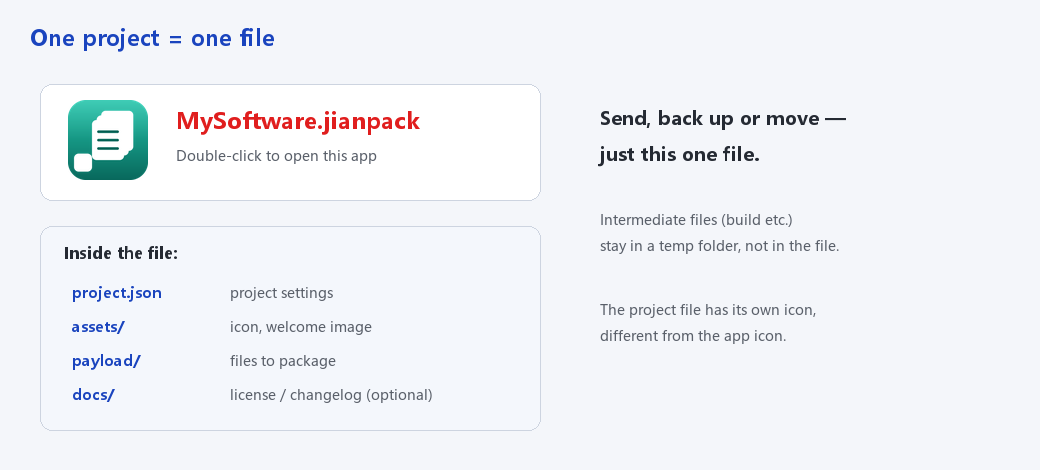
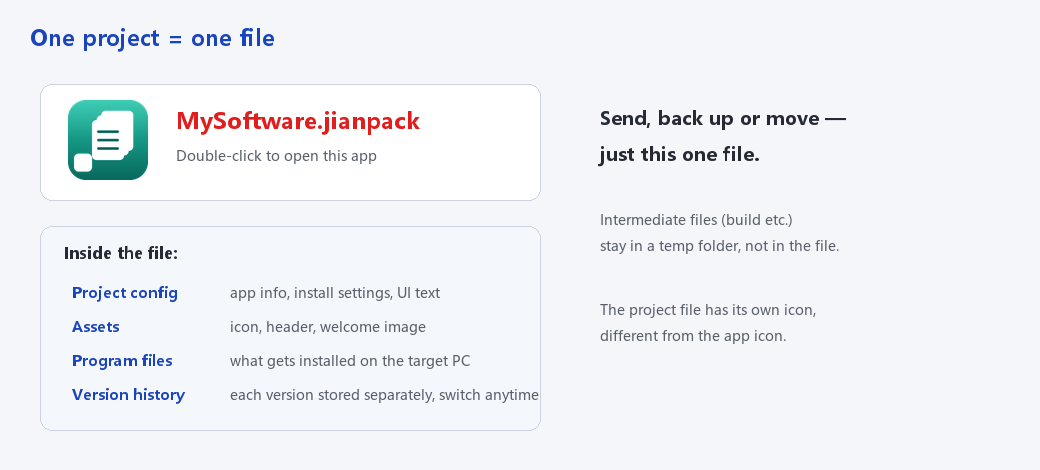
修复：版本面板「改版本号」现在真的改版本号（预览/安装包文件名/窗口标题同步）；打开后后台把其它版本的数据块解出来（切换≈0、不影响打开）；淘汰版本前先按需解出；教程「工程=一个文件」配图改为新格式说明（中英重生成）

diff --git a/app/core/versions.py b/app/core/versions.py
@@ -29,6 +29,7 @@ from pathlib import Path
 from ..i18n import t as _
 from . import container
 from .errors import ProjectFileError
+from .project import _pad_version
 
 VERSIONS_JSON = "versions.json"
 VERSIONS_DIR = "versions"
@@ -447,7 +448,7 @@ class VersionStore:
                            payload_tops=tops)
         self.items.append(item)
         self.current = item.id
-        self.prune()
+        self.prune(project)
         self.save()
         return item
 
@@ -473,13 +474,8 @@ class VersionStore:
             return target
 
         target_dir = self.dir_for(target_id)
-        if not target_dir.is_dir() and self.container_path is not None:
-            # 数据块还没解到磁盘（打开时只解了当前版本）→ 现在按需解开它
-            try:
-                container.materialize(self.container_path, self.base_dir, target_id)
-            except ProjectFileError:
-                pass
-        if not target_dir.is_dir():
+        self._ensure_materialized(project, target)
+        if not (target_dir / "project.json").is_file():
             raise ProjectFileError(
                 _("版本「{name}」的存档已经不存在了，无法切换。").format(
                     name=target.display()))
@@ -510,12 +506,29 @@ class VersionStore:
         self.save()
         return target
 
-    def prune(self) -> list[VersionInfo]:
+    def _ensure_materialized(self, project, item) -> None:
+        """确保这个版本的目录已经在磁盘上（懒解压时要先从容器里解出来）。"""
+        if item is None or self.container_path is None:
+            return
+        directory = self.dir_for(item.id)
+        if (directory / "project.json").is_file():
+            return
+        # 打开后后台可能在解它 → 先等它收尾，避免两边同时写同一个目录
+        wait = getattr(project, "wait_materialize", None)
+        if wait is not None:
+            wait()
+        try:
+            container.materialize(self.container_path, self.base_dir, item.id)
+        except ProjectFileError:
+            pass
+
+    def prune(self, project=None) -> list[VersionInfo]:
         """把被淘汰版本的程序文件删掉，返回被清理的版本。"""
         stripped: list[VersionInfo] = []
         for item in self.retired_items():
             if item.id == self.current or not item.payload_stored:
                 continue
+            self._ensure_materialized(project, item)
             dest = self.dir_for(item.id)
             for top in item.payload_tops:
                 path = dest / top
@@ -530,11 +543,27 @@ class VersionStore:
             stripped.append(item)
         return stripped
 
-    def rename(self, vid: str, label: str, note: str) -> None:
+    def rename(self, project, vid: str, version: str, note: str) -> None:
+        """改版本号（可顺带改备注）。
+
+        当前版本改号时，同步写回工程（安装包文件名、实时预览、窗口标题都跟着走）；
+        程序文件版本如果原本就是按版本号自动补的，也跟着更新。
+        """
         item = self.item(vid)
         if item is None:
             return
-        item.label = label.strip()
+        version = (version or "").strip()
+        if version:
+            old_version = item.version
+            item.version = version
+            item.label = f"v{version}"
+            if vid == self.current and project is not None:
+                project.app.version = version
+                if (not project.app.file_version
+                        or project.app.file_version == _pad_version(old_version)):
+                    project.app.file_version = ""
+                    project.apply_derived()
+                item.file_version = project.app.file_version
         item.note = note.strip()
         self.save()
 

diff --git a/app/core/project.py b/app/core/project.py
@@ -737,11 +737,29 @@ class Project:
 
     def cleanup(self) -> None:
         """删掉本软件自己的临时工作目录（容器工程才有）。"""
+        # 后台可能还在把其它版本解出来 → 先叫停，再删目录（不阻塞太久）
+        self.cancel_materialize()
+        thread = getattr(self, "_materialize_thread", None)
+        if thread is not None:
+            thread.join(timeout=15)
         if self.work_dir is not None:
             from . import container
 
             container.cleanup(self.work_dir)
             self.work_dir = None
+
+    # -- 后台把其它版本解出来 -----------------------------------------------
+
+    def wait_materialize(self) -> None:
+        """等「后台把其它版本解出来」这件事收尾（已经做完就直接返回）。"""
+        done = getattr(self, "_materialize_done", None)
+        if done is not None:
+            done.wait()
+
+    def cancel_materialize(self) -> None:
+        cancel = getattr(self, "_materialize_cancel", None)
+        if cancel is not None:
+            cancel.set()
 
     # -- 派生 ---------------------------------------------------------------
 
@@ -1100,7 +1118,8 @@ class Project:
 # 加载入口
 # ---------------------------------------------------------------------------
 
-def load_project(path: str | Path, progress=None) -> Project:
+def load_project(path: str | Path, progress=None,
+                 background_materialize: bool = False) -> Project:
     """读取并校验工程文件。结构性问题直接抛 :class:`ProjectFileError`。
 
     支持两种 ``.jianpack``：单文件容器（``PK`` 开头的 zip）和老的 foldered
@@ -1174,7 +1193,43 @@ def load_project(path: str | Path, progress=None) -> Project:
         container.cleanup(work_dir)
         raise
     project.apply_derived()
+    if background_materialize and project.is_container:
+        _start_background_materialize(project)
     return project
+
+
+def _start_background_materialize(project: "Project") -> None:
+    """打开工程后，在后台把**其它版本**的数据块也解到磁盘。
+
+    这样等用户真的要切版本时，目录已经在磁盘上了，切换就是「改名 + 改索引」（≈0），
+    而且不影响打开的速度（打开只解当前版本）。关软件 / 保存时会叫停或等它收尾。
+    """
+    import threading
+
+    from . import container
+
+    cancel = threading.Event()
+    done = threading.Event()
+    project._materialize_cancel = cancel
+    project._materialize_done = done
+
+    def work() -> None:
+        try:
+            ids = container.missing_versions(project.source_path, project.base_dir)
+            for vid in ids:
+                if cancel.is_set():
+                    break
+                try:
+                    container.materialize(project.source_path, project.base_dir, vid,
+                                          should_stop=cancel.is_set)
+                except Exception:  # noqa: BLE001 - 后台解压失败不该影响使用
+                    pass
+        finally:
+            done.set()
+
+    thread = threading.Thread(target=work, daemon=True, name="jianpack-materialize")
+    project._materialize_thread = thread
+    thread.start()
 
 
 def _project_from_data(data: dict, source: Path, base_dir: Path, is_container: bool,

diff --git a/app/ui/version_panel.py b/app/ui/version_panel.py
@@ -111,7 +111,7 @@ class VersionPanel(ttk.Frame):
         self.delete_button.pack(side="right")
         self.lock_button = ttk.Button(bar, text=_("锁定"), width=5, command=self.toggle_lock)
         self.lock_button.pack(side="right", padx=(0, 4))
-        self.rename_button = ttk.Button(bar, text=_("重命名…"), width=8, command=self.rename)
+        self.rename_button = ttk.Button(bar, text=_("改版本号…"), width=9, command=self.rename)
         self.rename_button.pack(side="right", padx=(0, 4))
 
         self.hint = ttk.Label(self, foreground=theme.c("hint"), justify="left",
@@ -154,8 +154,8 @@ class VersionPanel(ttk.Frame):
             is_current = item is not None and item.id == store.current
             lock = "🔒 " if item.locked else ""
             if is_current:
-                name = "▶ " + lock + (f"v{project.app.version}"
-                                      if project.app.version else item.display())
+                shown = item.version or project.app.version
+                name = "▶ " + lock + (f"v{shown}" if shown else item.display())
             else:
                 name = lock + item.display()
             if item.id in retired_ids:
@@ -446,15 +446,25 @@ class VersionPanel(ttk.Frame):
         item = self._store.item(vid)
         if item is None:
             return
-        dialog = EntryDialog(self.winfo_toplevel(), _("重命名版本"), [
-            {"key": "label", "label": "名称", "default": item.display()},
+        dialog = EntryDialog(self.winfo_toplevel(), _("修改版本号"), [
+            {"key": "version", "label": "版本号", "default": item.version,
+             "hint": "改完会同步到安装包文件名、实时预览和窗口标题"},
             {"key": "note", "label": "备注", "default": item.note},
         ])
         if dialog.result is None:
             return
-        self._store.rename(vid, str(dialog.result.get("label", "")),
-                           str(dialog.result.get("note", "")))
+        version = str(dialog.result.get("version", "")).strip() or item.version
+        if any(i.id != vid and i.version == version for i in self._store.items):
+            messagebox.showwarning(
+                _("版本号重复"),
+                _("已经有一个 v{version} 的版本了，请换一个版本号。").format(version=version),
+                parent=self.winfo_toplevel())
+            return
+        project = self._project()
+        self._store.rename(project, vid, version, str(dialog.result.get("note", "")))
         self.refresh()
+        if project is not None and vid == self._store.current:
+            self.app.touch()          # 标题栏 / 预览立刻跟着新版本号走
 
     def toggle_lock(self) -> None:
         vid = self._selected()
@@ -481,7 +491,7 @@ class VersionPanel(ttk.Frame):
 
             def work():
                 self._store.set_locked(vid, False)
-                self._store.prune()
+                self._store.prune(project)
                 self._store.save()
                 if project is not None:
                     save_project(project)

diff --git a/app/core/container.py b/app/core/container.py
@@ -152,6 +152,10 @@ def load_versions_json(manifest: dict) -> dict:
 # 把容器里的一段当作独立文件（给 zipfile 用；偏移从 0 开始）
 # ---------------------------------------------------------------------------
 
+class _Cancelled(Exception):
+    """后台解压被要求中止（关软件时用）。"""
+
+
 class _Region(io.RawIOBase):
     """容器文件 ``[base, base+length)`` 这一段，冒充成一个从 0 开始的文件。
 
@@ -328,12 +332,14 @@ def _copy_region(src: Path, offset: int, length: int, out) -> None:
 
 
 def _extract_block(handle, offset: int, length: int, out_dir: Path, root: Path,
-                   state: dict, progress) -> None:
+                   state: dict, progress, should_stop=None) -> None:
     """把一个数据块（内部 zip）解到 ``out_dir``。"""
     out_dir.mkdir(parents=True, exist_ok=True)
     region = _Region(handle, offset, length)
     with zipfile.ZipFile(region) as archive:
         for info in archive.infolist():
+            if should_stop is not None and should_stop():
+                raise _Cancelled()
             if info.is_dir():
                 continue
             if info.file_size > (8 << 30):
@@ -422,7 +428,8 @@ def extract(container: str | Path, dest: str | Path, progress=None) -> Path:
     return dest
 
 
-def materialize(container: str | Path, dest: str | Path, version_id: str) -> Path:
+def materialize(container: str | Path, dest: str | Path, version_id: str,
+                should_stop=None) -> Path:
     """把某个版本的数据块解到 ``dest/versions/<id>/``（切换过去之前调用）。"""
     container = Path(container)
     dest = Path(dest)
@@ -437,9 +444,24 @@ def materialize(container: str | Path, dest: str | Path, version_id: str) -> Pat
         state = {"done": 0, "total": 1}
         with container.open("rb") as handle:
             _extract_block(handle, int(entry.get("off", 0)), int(entry.get("len", 0)),
-                           out, root, state, None)
+                           out, root, state, None, should_stop)
         return out
     raise ProjectFileError(_("这个版本的数据块不见了，无法切换。"))
+
+
+def missing_versions(container: str | Path, dest: str | Path) -> list[str]:
+    """还没解到磁盘的版本 id（打开后可以让后台慢慢把它们解出来）。"""
+    try:
+        manifest = read_manifest(container)
+    except ProjectFileError:
+        return []
+    dest = Path(dest)
+    out: list[str] = []
+    for entry in manifest.get("versions") or []:
+        vid = str(entry.get("id") or "")
+        if vid and not (dest / "versions" / vid / PROJECT_JSON).is_file():
+            out.append(vid)
+    return out
 
 
 def block_sizes(container: str | Path) -> dict[str, int]:

diff --git a/tools/make-tutorial-images.py b/tools/make-tutorial-images.py
@@ -725,10 +725,10 @@ def shot_project() -> None:
     draw.text((64, 242), L("文件里装着：", "Inside the file:"),
               font=font(16, bold=True), fill=(37, 42, 51))
     rows = [
-        ("project.json", L("工程配置", "project settings")),
-        ("assets/", L("图标、欢迎页图片", "icon, welcome image")),
-        ("payload/", L("要打包的文件", "files to package")),
-        ("docs/", L("协议 / 日志（可选）", "license / changelog (optional)")),
+        (L("工程配置", "Project config"), L("应用信息、安装设置、界面文案", "app info, install settings, UI text")),
+        (L("资源文件", "Assets"), L("图标、页头图、欢迎页图", "icon, header, welcome image")),
+        (L("程序文件", "Program files"), L("要装到对方电脑上的东西", "what gets installed on the target PC")),
+        (L("历史版本", "Version history"), L("每个版本各存一份，可一键切换", "each version stored separately, switch anytime")),
     ]
     y = 282
     for name, desc in rows:

diff --git a/app/core/serialize.py b/app/core/serialize.py
@@ -242,6 +242,10 @@ def save_project(project: Project, path: str | Path | None = None,
     if container_mode:
         project.base_dir.mkdir(parents=True, exist_ok=True)
         (project.base_dir / container.PROJECT_JSON).write_bytes(text.encode("utf-8"))
+        # 打开后可能在后台解其它版本；先等它收尾，免得和保存抢同一批文件
+        wait = getattr(project, "wait_materialize", None)
+        if wait is not None:
+            wait()
         versions_json = _read_versions_json(project.base_dir)
         source = project.source_path if project.is_container else None
         manifest = container.save(target, project.base_dir, versions_json, source=source)

diff --git a/app/i18n.py b/app/i18n.py
@@ -1864,6 +1864,12 @@ EN: dict[str, str] = {
     "详细信息": "Details",
     "以前的版本": "Previous Versions",
 
+    # -- 版本号改名（版本面板「改版本号…」）--
+    "修改版本号": "Edit version",
+    "改版本号…": "Edit version…",
+    "改完会同步到安装包文件名、实时预览和窗口标题":
+        "The installer file name, the live preview and the window title all follow it",
+
     # -- 卡顿 / 异常可见性修复 --
     "正在统计缓存占用…": "Counting cache usage…",
     "正在统计缓存…": "Counting cache…",

diff --git a/app/ui/main_window.py b/app/ui/main_window.py
@@ -289,7 +289,8 @@ class MainWindow(tk.Tk):
 
         def work() -> None:
             try:
-                results["project"] = load_project(path, progress=report)
+                results["project"] = load_project(path, progress=report,
+                                                  background_materialize=True)
             except BaseException as exc:         # noqa: BLE001 - 原样带回主线程
                 results["error"] = exc
             finally:
